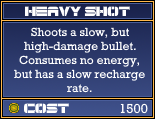
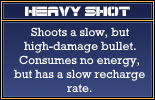
QoL changes and bug fixes

diff --git a/src/better/scenes/LevelSelectScreen.java b/src/better/scenes/LevelSelectScreen.java
@@ -178,98 +178,63 @@ public class LevelSelectScreen extends Screen {
         SelectablePlanet sun = new SelectablePlanet(503, 18, 94, 89, Assets.images.get("sun"), "Sun");
         sun.setOnClickListener(() -> {
             if(sun.getState() == PlanetState.NORMAL) {
-                selectedPlanet = 9;
                 selectPlanet("Sun");
-            } else if(sun.getState() == PlanetState.SELECTED) {
-                sun.setState(PlanetState.NORMAL);
             }
         });
         
         SelectablePlanet mercury = new SelectablePlanet(650, 110, 31, 29, Assets.images.get("mercury"), "Mercury");
         mercury.setOnClickListener(() -> {
             if(mercury.getState() == PlanetState.NORMAL) {
-                selectedPlanet = 8;
                 selectPlanet("Mercury");
-                lblSelectedPlanet.setText("MERCURY");
-            } else if(mercury.getState() == PlanetState.SELECTED) {
-                mercury.setState(PlanetState.NORMAL);
             }
         });
         
         SelectablePlanet venus = new SelectablePlanet(413, 126, 44, 42, Assets.images.get("venus"), "Venus");
         venus.setOnClickListener(() -> {
             if(venus.getState() == PlanetState.NORMAL) {
-                selectedPlanet = 7;
                 selectPlanet("Venus");
-                lblSelectedPlanet.setText("VENUS");
-            } else if(venus.getState() == PlanetState.SELECTED) {
-                venus.setState(PlanetState.NORMAL);
             }
         });
         
         SelectablePlanet earth = new SelectablePlanet(551, 193, 53, 48, Assets.images.get("earth"), "Earth");
         earth.setOnClickListener(() -> {
             if(earth.getState() == PlanetState.NORMAL) {
-                selectedPlanet = 6;
                 selectPlanet("Earth");
-                lblSelectedPlanet.setText("EARTH");
-            } else if(earth.getState() == PlanetState.SELECTED) {
-                earth.setState(PlanetState.NORMAL);
             }
         });
         
         SelectablePlanet mars = new SelectablePlanet(735, 229, 41, 39, Assets.images.get("mars"), "Mars");
         mars.setOnClickListener(() -> {
             if(mars.getState() == PlanetState.NORMAL) {
-                selectedPlanet = 5;
                 selectPlanet("Mars");
-                lblSelectedPlanet.setText("MARS");
-            } else if(mars.getState() == PlanetState.SELECTED) {
-                mars.setState(PlanetState.NORMAL);
             }
         });
         
         SelectablePlanet jupiter = new SelectablePlanet(339, 269, 72, 71, Assets.images.get("jupiter"), "Jupiter");
         jupiter.setOnClickListener(() -> {
             if(jupiter.getState() == PlanetState.NORMAL) {
-                selectedPlanet = 4;
                 selectPlanet("Jupiter");
-                lblSelectedPlanet.setText("JUPITER");
-            } else if(jupiter.getState() == PlanetState.SELECTED) {
-                jupiter.setState(PlanetState.NORMAL);
             }
         });
         
         SelectablePlanet saturn = new SelectablePlanet(506, 331, 66, 69, Assets.images.get("saturn"), "Saturn");
         saturn.setOnClickListener(() -> {
             if(saturn.getState() == PlanetState.NORMAL) {
-                selectedPlanet = 3;
                 selectPlanet("Saturn");
-                lblSelectedPlanet.setText("SATURN");
-            } else if(saturn.getState() == PlanetState.SELECTED) {
-                saturn.setState(PlanetState.NORMAL);
             }
         });
         
         SelectablePlanet uranus = new SelectablePlanet(713, 378, 47, 47, Assets.images.get("uranus"), "Uranus");
         uranus.setOnClickListener(() -> {
             if(uranus.getState() == PlanetState.NORMAL) {
-                selectedPlanet = 2;
                 selectPlanet("Uranus");
-                lblSelectedPlanet.setText("URANUS");
-            } else if(uranus.getState() == PlanetState.SELECTED) {
-                uranus.setState(PlanetState.NORMAL);
             }
         });
         
         SelectablePlanet neptune = new SelectablePlanet(397, 433, 52, 49, Assets.images.get("neptune"), "Neptune");
         neptune.setOnClickListener(() -> {
             if(neptune.getState() == PlanetState.NORMAL) {
-                selectedPlanet = 1;
                 selectPlanet("Neptune");
-                lblSelectedPlanet.setText("NEPTUNE");
-            } else if(neptune.getState() == PlanetState.SELECTED) {
-                neptune.setState(PlanetState.NORMAL);
             }
         });              
         
@@ -288,8 +253,7 @@ public class LevelSelectScreen extends Screen {
         for(int i = 0; i < player.getLevel(); i++) {
             selectablePlanets.get(8 - i).setState(PlanetState.NORMAL);
         }
-        selectedPlanet = 1;
-        neptune.setState(PlanetState.SELECTED);
+        selectPlanet(selectablePlanets.get(8 - player.getLevel() + 1).getName());
     }
 
     @Override
@@ -408,7 +372,7 @@ public class LevelSelectScreen extends Screen {
     }
   
     private String getPlanetString() {
-        return planets[9 - selectedPlanet];
+        return planets[8 - selectedPlanet + 1];
     }
     
     private void selectPlanet(String planet) {
@@ -416,6 +380,10 @@ public class LevelSelectScreen extends Screen {
             SelectablePlanet p = selectablePlanets.get(i);
             if(p.getName().equals(planet)) {
                 p.setState(PlanetState.SELECTED);
+                selectedPlanet = 8 - i + 1;
+                UILabel lblSelectedPlanet = (UILabel)uiControls.get("lblSelectedPlanet");
+                lblSelectedPlanet.setText(planet.toUpperCase());
+                lblSelectedPlanet.setDimensions(false);
             } else {
                 if(p.getState() != PlanetState.LOCKED) {
                     p.setState(PlanetState.NORMAL);

diff --git a/src/better/scenes/ShopScreen.java b/src/better/scenes/ShopScreen.java
@@ -72,10 +72,17 @@ public class ShopScreen extends Screen {
         UILabel lblEnergyLvl = new UILabel(128, 546, "Energy Level: " + player.getEnergyLvl(), Color.WHITE, UILabel.DEFAULT_FONT);
         lblEnergyLvl.setFontSize(13);
         
-        UILabel lblDoubleShot = new UILabel(156, 238, "BOUGHT", Color.WHITE, UILabel.DEFAULT_FONT);
-        UILabel lblHeavyShot = new UILabel(297, 238, "BOUGHT", Color.WHITE, UILabel.DEFAULT_FONT);
-        UILabel lblProtonShot = new UILabel(437, 238, "BOUGHT", Color.WHITE, UILabel.DEFAULT_FONT);
-        UILabel lblTripleShot = new UILabel(578, 238, "BOUGHT", Color.WHITE, UILabel.DEFAULT_FONT);
+        UILabel lblDoubleShot = new UILabel(156, 239, "1000", Color.WHITE, UILabel.DEFAULT_FONT);
+        lblDoubleShot.setFontSize(11);
+        
+        UILabel lblHeavyShot = new UILabel(297, 239, "1500", Color.WHITE, UILabel.DEFAULT_FONT);
+        lblHeavyShot.setFontSize(11);
+        
+        UILabel lblProtonShot = new UILabel(437, 239, "2200", Color.WHITE, UILabel.DEFAULT_FONT);
+        lblProtonShot.setFontSize(11);
+        
+        UILabel lblTripleShot = new UILabel(578, 239, "3000", Color.WHITE, UILabel.DEFAULT_FONT);
+        lblTripleShot.setFontSize(11);
         
         uiControls.put("btnGoBack", btnGoBack);
         uiControls.put("lblArmorCost", lblArmorCost);
@@ -152,25 +159,53 @@ public class ShopScreen extends Screen {
         if(bullets.contains(Bullet.BULLET_DOUBLE_SHOT)) {
             g.setColor(new Color(0, 0, 0, 200));
             g.fillRect((int)rect1.x, (int)rect1.y, (int)rect1.width, (int)rect1.height);
-            uiControls.get("lblDoubleShot").render(g);
+        } else {
+            UILabel lblDoubleShot = (UILabel)uiControls.get("lblDoubleShot");
+            lblDoubleShot.render(g);
+            lblDoubleShot.calculateDimensions(g);
+
+            coinX = 158 + (32 - (coinW / 2 + (int)lblDoubleShot.getWidth() / 2)) - coinW + 2;
+            g.drawImage(coin, coinX, 238, coinW, coinH, null);
+            lblDoubleShot.setX(coinX + coinW + 10);
         }
         
         if(bullets.contains(Bullet.BULLET_HEAVY_SHOT)) {
             g.setColor(new Color(0, 0, 0, 200));
             g.fillRect((int)rect2.x, (int)rect2.y, (int)rect2.width, (int)rect2.height);
-            uiControls.get("lblHeavyShot").render(g);
+        } else {
+            UILabel lblHeavyShot = (UILabel)uiControls.get("lblHeavyShot");
+            lblHeavyShot.render(g);
+            lblHeavyShot.calculateDimensions(g);
+
+            coinX = 299 + (32 - (coinW / 2 + (int)lblHeavyShot.getWidth() / 2)) - coinW + 2;
+            g.drawImage(coin, coinX, 238, coinW, coinH, null);
+            lblHeavyShot.setX(coinX + coinW + 10);
         }
         
         if(bullets.contains(Bullet.BULLET_PROTON_SHOT)) {
             g.setColor(new Color(0, 0, 0, 200));
             g.fillRect((int)rect3.x, (int)rect3.y, (int)rect3.width, (int)rect3.height);
-            uiControls.get("lblProtonShot").render(g);
+        } else {
+            UILabel lblProtonShot = (UILabel)uiControls.get("lblProtonShot");
+            lblProtonShot.render(g);
+            lblProtonShot.calculateDimensions(g);
+
+            coinX = 439 + (32 - (coinW / 2 + (int)lblProtonShot.getWidth() / 2)) - coinW + 2;
+            g.drawImage(coin, coinX, 238, coinW, coinH, null);
+            lblProtonShot.setX(coinX + coinW + 10);
         }
         
         if(bullets.contains(Bullet.BULLET_TRIPLE_SHOT)) {
             g.setColor(new Color(0, 0, 0, 200));
             g.fillRect((int)rect4.x, (int)rect4.y, (int)rect4.width, (int)rect4.height);
-            uiControls.get("lblTripleShot").render(g);
+        } else {
+            UILabel lblTripleShot = (UILabel)uiControls.get("lblTripleShot");
+            lblTripleShot.render(g);
+            lblTripleShot.calculateDimensions(g);
+
+            coinX = 580 + (32 - (coinW / 2 + (int)lblTripleShot.getWidth() / 2)) - coinW + 2;
+            g.drawImage(coin, coinX, 238, coinW, coinH, null);
+            lblTripleShot.setX(coinX + coinW + 10);
         }
      
         // render desc img

diff --git a/src/better/scenes/CustomizeScreen.java b/src/better/scenes/CustomizeScreen.java
@@ -15,6 +15,7 @@ import better.ui.UIButton;
 import java.awt.Color;
 import java.awt.Graphics2D;
 import java.awt.geom.Rectangle2D;
+import java.awt.image.BufferedImage;
 import java.util.ArrayList;
 import java.util.HashSet;
 
@@ -25,7 +26,8 @@ class SelectableRectangle extends GameObject {
     
     private Rectangle2D.Float rect;
     private int state;
-
+    private boolean hovering;
+    
     public SelectableRectangle(float x, float y, float width, float height, int state) {
         super(x, y, width, height);
         this.state = state;
@@ -50,10 +52,14 @@ class SelectableRectangle extends GameObject {
     public void onClick() { }
 
     @Override
-    public void mouseEnter() { }
+    public void mouseEnter() { 
+        hovering = true;
+    }
 
     @Override
-    public void mouseLeave() { }
+    public void mouseLeave() {
+        hovering = false;
+    }
 
     @Override
     public void mouseDown() { }
@@ -67,6 +73,10 @@ class SelectableRectangle extends GameObject {
     
     public void setState(int state) {
         this.state = state;
+    }
+    
+    public boolean isHovering() {
+        return hovering;
     }
 }
 /**
@@ -92,6 +102,7 @@ public class CustomizeScreen extends Screen {
     private ArrayList<SelectableRectangle> shipRects;
     private ArrayList<SelectableRectangle> bulletRects;
     private HashSet<Integer> bullets;
+    private BufferedImage descImg;
     
     @Override
     public void init() {
@@ -113,6 +124,7 @@ public class CustomizeScreen extends Screen {
                     msgBox.hide();
                     player.setSkin(selectedShip);
                     player.setCurrBullet(selectedBullet);
+                    Game.setCurrentScreen(LevelSelectScreen.getInstance());
                 }, () -> {
                     msgBox.hide();
                     changeShipSelection(origShip);
@@ -217,7 +229,7 @@ public class CustomizeScreen extends Screen {
         
         if(selectedBullet != -1) {
             bulletRects.get(selectedBullet).setState(SelectableRectangle.RECT_STATE_SELECTED);
-        }
+        }  
     }
 
     @Override
@@ -261,6 +273,11 @@ public class CustomizeScreen extends Screen {
                 break;
         }  
         
+        // render desc img
+        if(descImg != null) {
+            g.drawImage(descImg, (int)Game.getMouseManager().getX() + 12, (int)Game.getMouseManager().getY() - 20, descImg.getWidth(), descImg.getHeight(), null);
+        }       
+        
         // render msgbox
         if(msgBox != null && msgBox.isVisible()) {
             msgBox.render(g);
@@ -284,6 +301,27 @@ public class CustomizeScreen extends Screen {
             // update bullet rectangles
             for(SelectableRectangle rect : bulletRects) {
                 rect.update();
+            }
+            
+            // check for showing desc imgs
+            if(bulletRects.get(0).isHovering()) {
+                if(bullets.contains(0)) {
+                    descImg = Assets.images.get("ShopDoubleShotDesc");
+                }      
+            } else if(bulletRects.get(1).isHovering()) {
+                if(bullets.contains(1)) {
+                    descImg = Assets.images.get("ShopHeavyShotDesc");
+                }        
+            } else if(bulletRects.get(2).isHovering()) {
+                if(bullets.contains(2)) {
+                    descImg = Assets.images.get("ShopProtonShotDesc");
+                }
+            } else if(bulletRects.get(3).isHovering()) {
+                if(bullets.contains(3)) {
+                    descImg = Assets.images.get("ShopTripleShotDesc");
+                }
+            } else {
+                descImg = null;
             }
         }
     } 

diff --git a/src/better/game/Player.java b/src/better/game/Player.java
@@ -195,18 +195,20 @@ public class Player extends GameObject {
             speed = 25;
             dashTimer.restart();
             setDashing(true);
-            setEnergy(getEnergy() - 20);
+            setEnergy(getEnergy() - (19 + energyLvl));
         }
         if(dashTimer.isActivated()){
             speed = 3;
             setDashing(false);
             if (energyTimer.isActivated()){
                 if(!(isShooting() && (selectedBullet == Bullet.BULLET_DOUBLE_SHOT || selectedBullet == Bullet.BULLET_TRIPLE_SHOT || selectedBullet == Bullet.BULLET_PROTON_SHOT))) {
+                    int regenRate = 1 + energyLvl / 4;
+                    
                     // adding energy when not dashing
-                    setEnergy(getEnergy() + 1);                    
+                    setEnergy(getEnergy() + regenRate);                    
                 }
 
-                energyTimer.restart();
+                energyTimer.restart(0.15);
                 if (getEnergy() >= maxEnergy){
                     setEnergy(maxEnergy);
                 }
@@ -325,6 +327,10 @@ public class Player extends GameObject {
     
     public int getSelectedBullet() {
         return selectedBullet;
+    }
+    
+    public void setSelectedBullet(int selected) {
+        this.selectedBullet = selected;
     }
     
     public void switchSelectedBullet() {

diff --git a/src/better/levels/Level.java b/src/better/levels/Level.java
@@ -59,6 +59,7 @@ public abstract class Level implements LevelEventListener {
         collectedCoins = 0;
         
         this.player = player;
+        player.setSelectedBullet(-1);
         player.recoverStats();
         player.setBullets(bullets);
         player.setLights(lights);
@@ -253,7 +254,7 @@ public abstract class Level implements LevelEventListener {
                 if(powerup.intersects(player)) {
                     switch(powerup.getType()) {
                         case Powerup.TYPE_HEALTH:
-                            player.setArmor(player.getArmor() + 15);
+                            player.setArmor(player.getArmor() + player.getMaxArmor() / 4);
                             break;
                     }
                     Assets.powerup.play();
